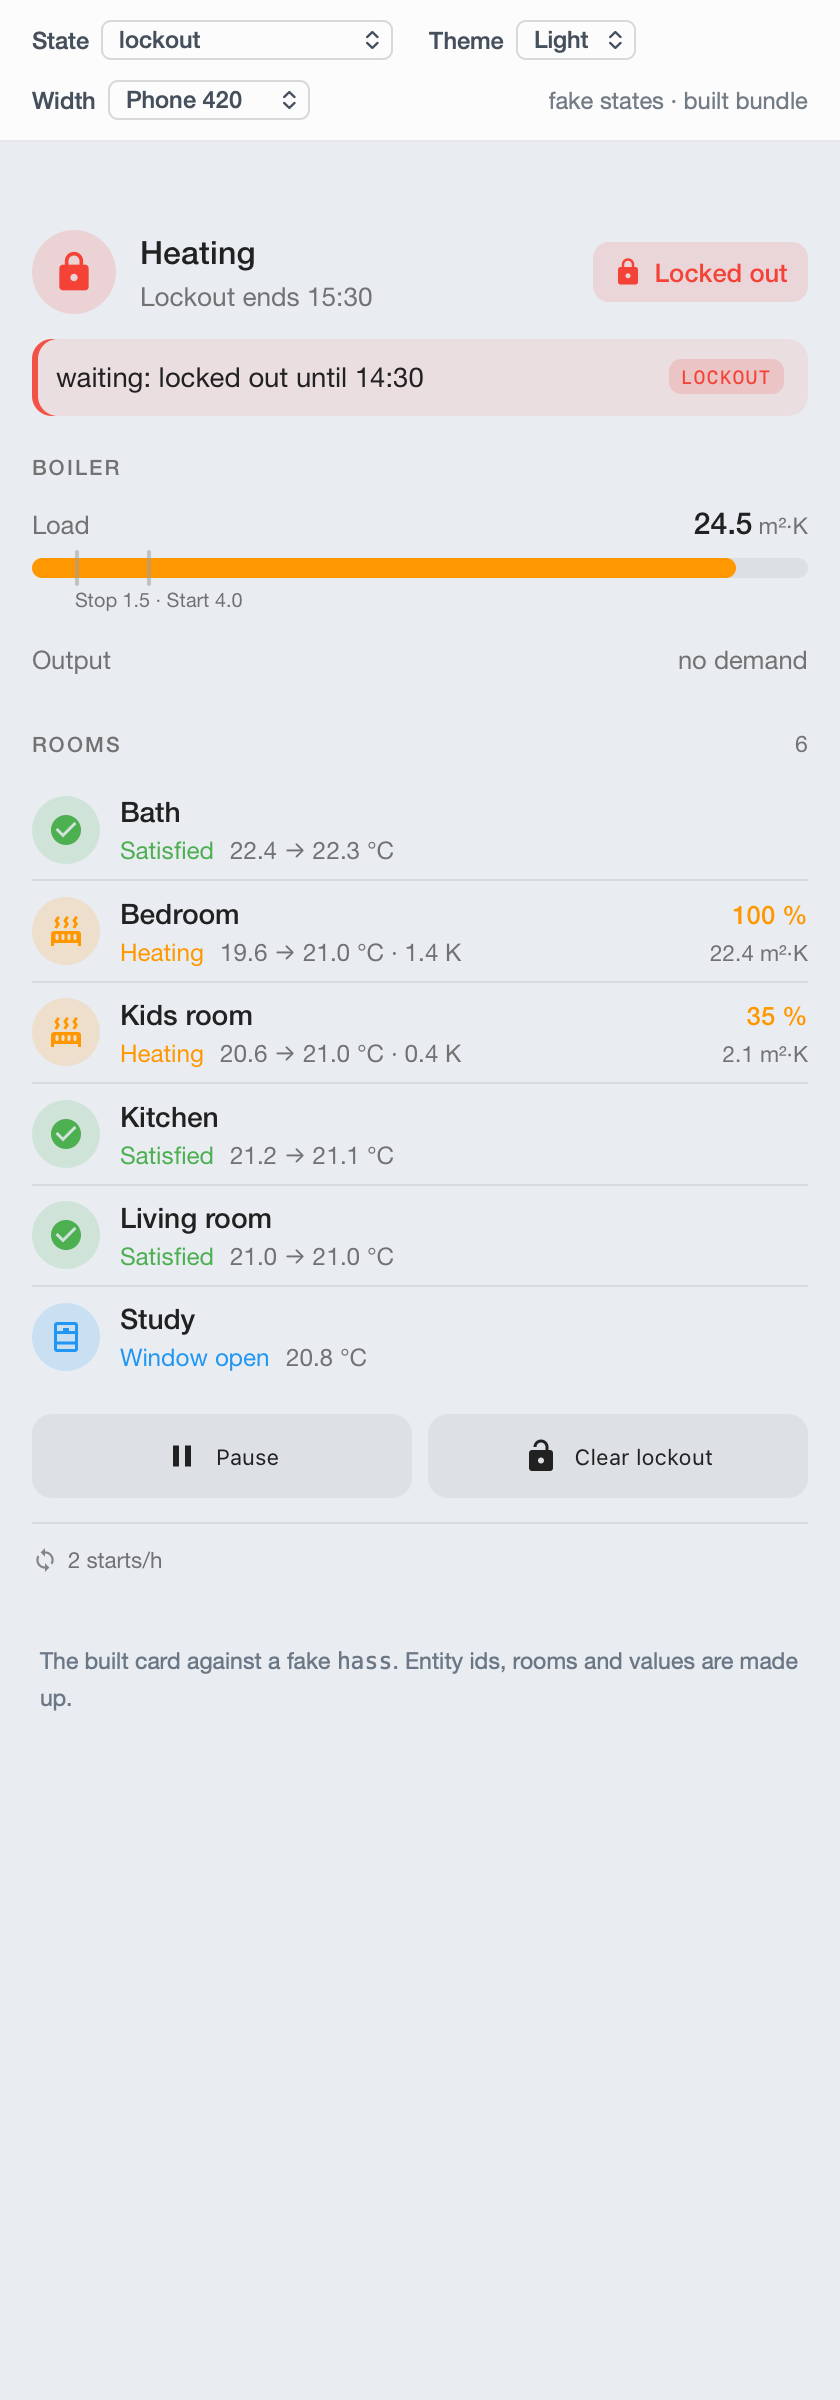
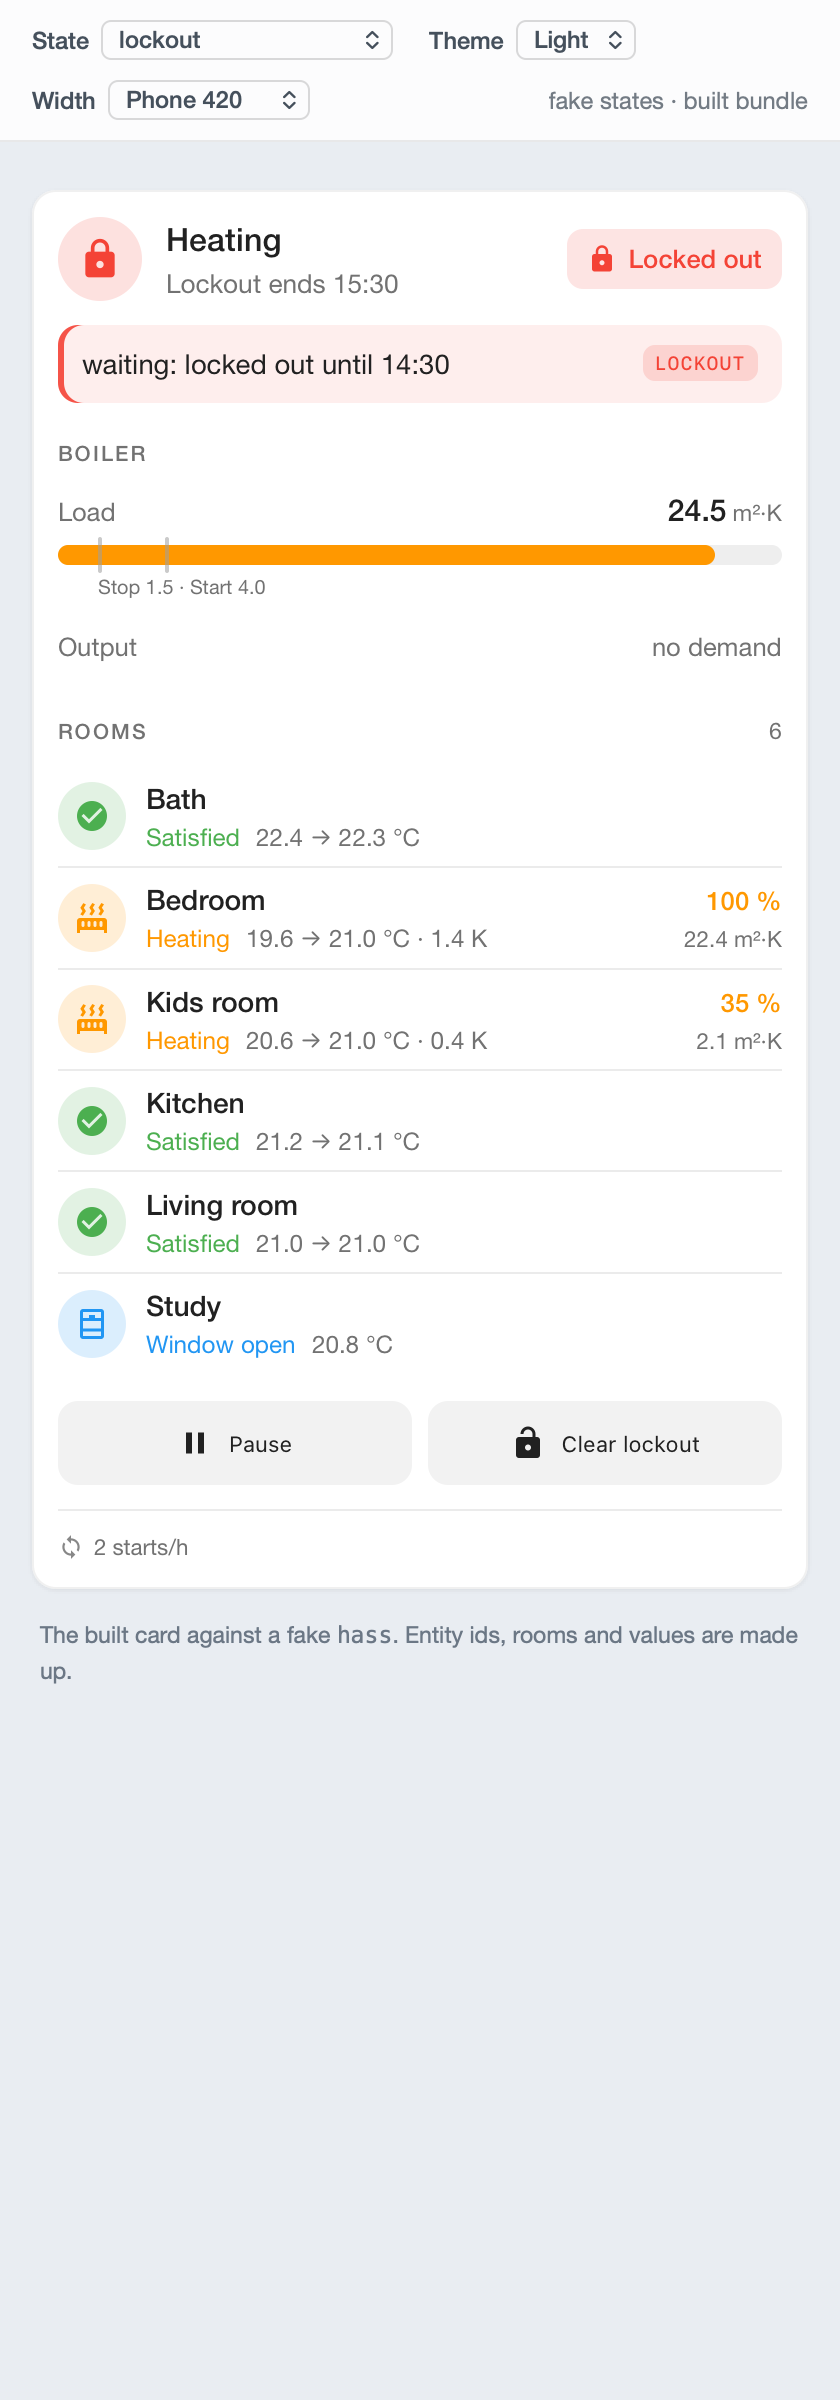
Drop the deprecated build option and refresh the screenshots

diff --git a/vite.config.ts b/vite.config.ts
@@ -11,9 +11,6 @@ export default defineConfig({
       formats: ['es'],
       fileName: () => 'heating-controller-card.js',
     },
-    rollupOptions: {
-      output: { inlineDynamicImports: true },
-    },
     // The bundle is committed and CI fails when it differs from the source, so keep the
     // output readable: a diff then shows what actually changed.
     minify: false,
